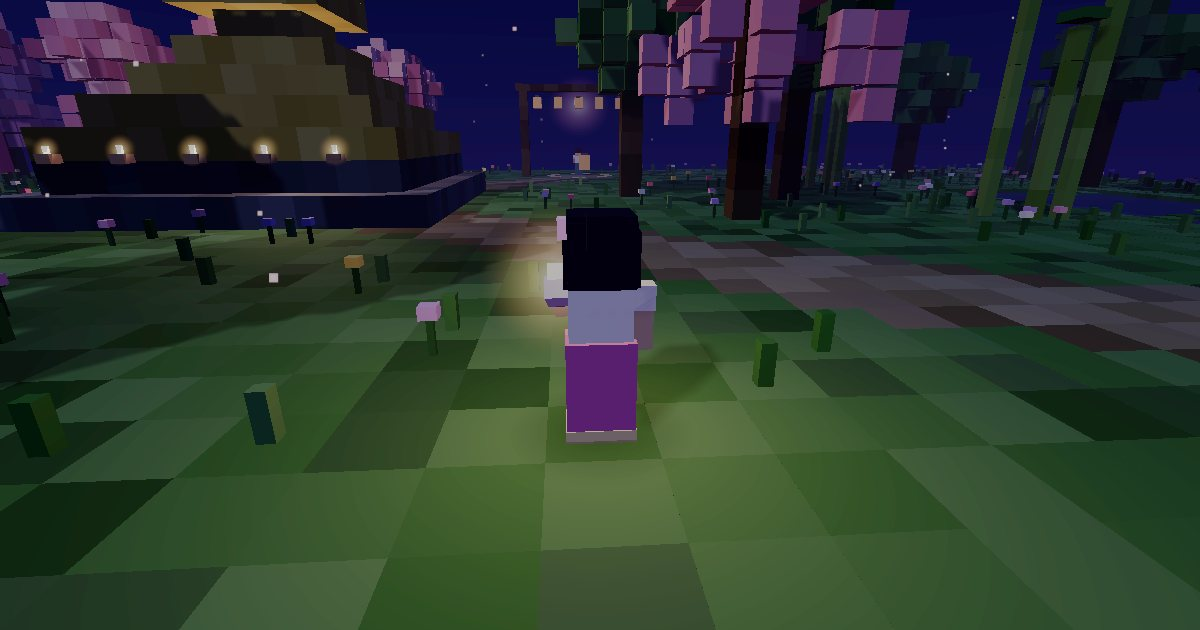
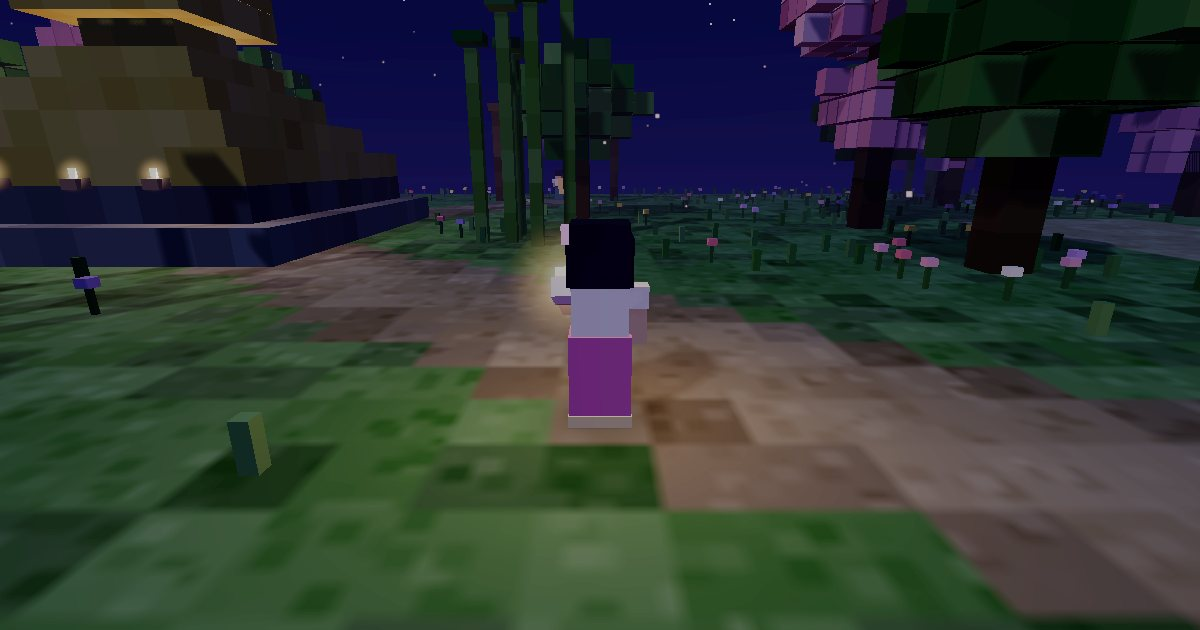
Draw the flat ground as one textured plane instead of 8500 cubes
Only the top face of a ground block is ever visible, so the cubes were
paying for geometry nobody can see. One plane with an eight-pixel-per-block
nearest-filtered texture looks the same and drops the scene to roughly
8,000 instances across three batches.

Also: fewer trees on touch devices, and the frame-time clamp is relaxed so
a slow device walks at a sane pace rather than crawling.

Claude-Session: https://claude.ai/code/session_019ZJrjnJyQDw7rBVXjexqKj

diff --git a/index.html b/index.html
@@ -472,7 +472,7 @@ var STATION_POS = [
   { x:   7, z: -71 }    /* 5 Gintoki      */
 ];
 
-var SOLID = [], GROUNDB = [], PLANT = [], GLOWB = [];
+var SOLID = [], PLANT = [], GLOWB = [];
 function box(list, x, y, z, s, c, sy){
   list.push({ x:x, y:y, z:z, s:s, sy: sy == null ? s : sy, c:c });
 }
@@ -510,22 +510,31 @@ function distToPath(x, z){
 var RIV = { x0: 27, x1: 35, z0: -58, z1: -6 };
 function isWater(x, z){ return x >= RIV.x0 && x <= RIV.x1 && z >= RIV.z0 && z <= RIV.z1; }
 
-/* ---- ground ---- */
+/* ---- ground: one pixel per block, nearest filtered ---- */
 var FLOWER_COLS = [0xff5e7a, 0xffd34d, 0xf8f3ff, 0xff8fc4, 0xc98bff];
+var GX0 = -46, GX1 = 46, GZ0 = -80, GZ1 = 11;
+var GW = GX1-GX0+1, GH = GZ1-GZ0+1;
 (function ground(){
-  for(var x=-46; x<=46; x++){
-    for(var z=-80; z<=11; z++){
-      if(isWater(x,z)){ box(GROUNDB, x, -1.5, z, 1, vary(C.sand, 14)); continue; }
-      var near = distToPath(x, z);
-      if(near < 2.4){
-        box(GROUNDB, x, -0.5, z, 1, vary(near < 1.5 ? C.path : C.pathD, 16));
-        continue;
+  var BPX = 8;                                   /* pixels per block */
+  var c = document.createElement("canvas"); c.width = GW*BPX; c.height = GH*BPX;
+  var g = c.getContext("2d");
+  for(var x=GX0; x<=GX1; x++){
+    for(var z=GZ0; z<=GZ1; z++){
+      var col, near = distToPath(x, z);
+      if(isWater(x,z))      col = vary(C.sand, 10);
+      else if(near < 2.4)   col = vary(near < 1.5 ? C.path : C.pathD, 12);
+      else                  col = vary(Math.random() < 0.25 ? C.grassD : C.grass, 11);
+      var px = (x - GX0)*BPX, pz = (z - GZ0)*BPX;
+      g.fillStyle = "#" + ("000000" + col.toString(16)).slice(-6);
+      g.fillRect(px, pz, BPX, BPX);
+      /* speckle inside the block so it has texture rather than flat fill */
+      for(var q=0;q<9;q++){
+        var sp = vary(col, 16);
+        g.fillStyle = "#" + ("000000" + sp.toString(16)).slice(-6);
+        g.fillRect(px + ((Math.random()*BPX)|0), pz + ((Math.random()*BPX)|0), 2, 2);
       }
-      var g = Math.random() < 0.25 ? C.grassD : C.grass;
-      box(GROUNDB, x, -0.5, z, 1, vary(g, 11));
-      /* blossoms, flowers and tufts scattered over the fields */
+      if(isWater(x,z) || near < 4.2) continue;
       var r = Math.random();
-      if(near < 4.2) continue;
       if(r < 0.055){
         box(PLANT, x, 0.26, z, 0.09, C.leafD, 0.52);
         box(PLANT, x, 0.58, z, 0.24, FLOWER_COLS[(Math.random()*FLOWER_COLS.length)|0], 0.18);
@@ -535,6 +544,18 @@ var FLOWER_COLS = [0xff5e7a, 0xffd34d, 0xf8f3ff, 0xff8fc4, 0xc98bff];
       }
     }
   }
+  var tex = new THREE.CanvasTexture(c);
+  tex.magFilter = THREE.NearestFilter;
+  tex.minFilter = THREE.LinearMipMapLinearFilter;
+  tex.anisotropy = Math.min(renderer.capabilities.getMaxAnisotropy(), MOBILE ? 8 : 16);
+  var m = new THREE.Mesh(
+    new THREE.PlaneGeometry(GW, GH),
+    new THREE.MeshStandardMaterial({ map: tex, roughness:.96, metalness:0, envMapIntensity:.25 })
+  );
+  m.rotation.x = -Math.PI/2;
+  m.position.set((GX0+GX1)/2, 0, (GZ0+GZ1)/2);
+  m.receiveShadow = true;
+  scene.add(m);
 })();
 
 /* ---- blossom + green trees ---- */
@@ -581,7 +602,7 @@ function bambooClump(x, z){
 }
 (function scatterTrees(){
   var placed = [], i, k;
-  for(i=0;i<190;i++){
+  for(i=0;i< (MOBILE ? 120 : 190); i++){
     var x = Math.round(-44 + Math.random()*88);
     var z = Math.round(-78 + Math.random()*88);
     if(isWater(x,z) || distToPath(x,z) < 6.5) continue;
@@ -792,7 +813,6 @@ function buildInstanced(list, mat, cast, receive){
   scene.add(im);
   return im;
 }
-buildInstanced(GROUNDB, new THREE.MeshStandardMaterial({ roughness:.95, metalness:0, envMapIntensity:.25 }), false, true);
 buildInstanced(SOLID,   new THREE.MeshStandardMaterial({ roughness:.88, metalness:0, envMapIntensity:.25 }), true,  true);
 buildInstanced(PLANT,   new THREE.MeshStandardMaterial({ roughness:.9,  metalness:0, envMapIntensity:.25 }), false, true);
 buildInstanced(GLOWB,   new THREE.MeshStandardMaterial({ roughness:.4, emissive:0xffd98a, emissiveIntensity:1.25 }), false, false);
@@ -1136,7 +1156,7 @@ var activeStation = null;
 
 function tick(){
   requestAnimationFrame(tick);
-  var dt = Math.min(0.05, clock.getDelta());
+  var dt = Math.min(0.1, clock.getDelta());
   var t  = clock.elapsedTime;
 
   /* ---- movement ---- */
